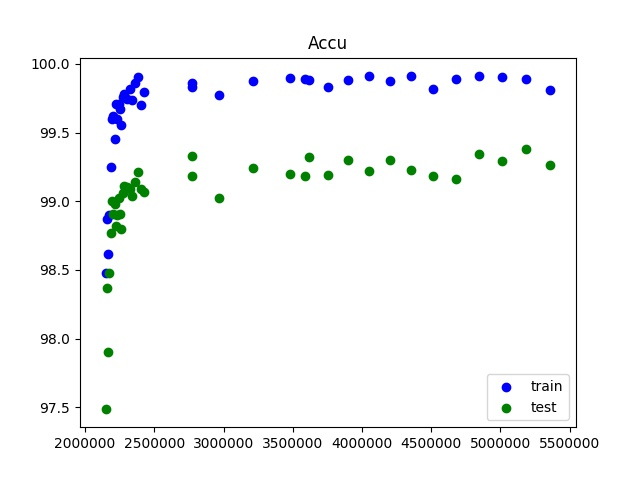
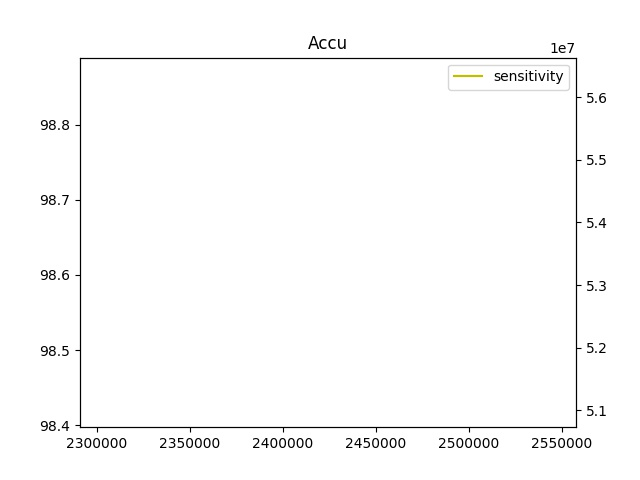
kdjf

diff --git a/hw1/1-3/1-3-3-2/util.py b/hw1/1-3/1-3-3-2/util.py
@@ -74,25 +74,29 @@ class Datamanager():
         return total_loss
     def val(self,model,name,valloader):
         model.eval()
+        loss_func = nn.CrossEntropyLoss()
         test_loss = 0
         correct = 0
+        g_total=[torch.zeros_like(i) for i in list(model.parameters())]
         for x, y in valloader:
-            x, y = Variable(x, volatile=True).cuda(), Variable(y,volatile=True).cuda()
+            x, y = Variable(x, volatile=False).cuda(), Variable(y,volatile=False).cuda()
             output = model(x)
-            test_loss += F.cross_entropy(output, y, size_average=False).data[0] # sum up batch loss
+            loss = loss_func(output,y)
+            test_loss += float(loss)
             #print('cross_entropy:',F.cross_entropy(output, y, size_average=False).data.size())
             pred = output.data.max(1,keepdim=True)[1] # get the index of the max log-probability
             #print('max:',output.data.max(1, keepdim=True).size())
             correct += pred.eq(y.data.view_as(pred)).long().cpu().sum()
-            g=torch.autograd.grad(test_loss, model.parameters(), create_graph=True)
-            print(g)
-            input()
+            g=torch.autograd.grad(loss, model.parameters())
+            for i in range(len(g_total)):
+                g_total[i]+=g[i]
 
         test_loss /= len(valloader.dataset)
-        print('{} set: Average loss: {:.4f} | Accuracy: {}/{} ({:.0f}%) | '.format(
+        g_total = sum([grd.norm()**2 for grd in g_total]).data[0]
+        print('{} set: Average loss: {:.4f} | Accuracy: {}/{} ({:.0f}%) | Gradien Norm: {}'.format(
             name,test_loss, correct, len(valloader.dataset),
-            100. * correct / len(valloader.dataset)))
-        return [test_loss,100 * correct / len(valloader.dataset)]
+            100. * correct / len(valloader.dataset),g_total))
+        return [test_loss,100 * correct / len(valloader.dataset),g_total]
     def test(self,model,trainloader):
         model.eval()
         pred_x=[]

diff --git a/hw1/1-3/1-3-3-2/plot.py b/hw1/1-3/1-3-3-2/plot.py
@@ -18,22 +18,25 @@ args = parser.parse_args()
 ############################################################
 dm.load_np('train','record/train.npy')
 dm.load_np('test','record/test.npy')
-x=np.array(range(1,len(dm.data['train'])+1))
 ############################################################
 #               plot loss                                  #
 ############################################################
-plt.figure()
-plt.scatter(dm.data['train'][:,0],dm.data['train'][:,1],c='b',label='train')
-plt.scatter(dm.data['test'][:,0],dm.data['test'][:,1],c='g',label='test')
+fig, ax1 = plt.subplots()
+ax2 = ax1.twinx()
+ax1.plot(dm.data['train'][:,0],dm.data['train'][:,1],c='b',label='train')
+ax1.plot(dm.data['test'][:,0],dm.data['test'][:,1],c='g',label='test')
+ax2.plot(dm.data['train'][:,0],dm.data['train'][:,3],c='y',label='sensitivity')
 plt.title('Loss')
 plt.legend()
 plt.savefig(args.loss_output)
 ############################################################
-#               plot loss                                  #
+#               plot accu                                  #
 ############################################################
-plt.figure()
-plt.scatter(dm.data['train'][:,0],dm.data['train'][:,2],c='b',label='train')
-plt.scatter(dm.data['test'][:,0],dm.data['test'][:,2],c='g',label='test')
+fig, ax1 = plt.subplots()
+ax2 = ax1.twinx()
+ax1.plot(dm.data['train'][:,0],dm.data['train'][:,2],c='b',label='train')
+ax1.plot(dm.data['test'][:,0],dm.data['test'][:,2],c='g',label='test')
+ax2.plot(dm.data['train'][:,0],dm.data['train'][:,3],c='y',label='sensitivity')
 plt.title('Accu')
 plt.legend()
 plt.savefig(args.accu_output)

diff --git a/hw1/1-3/1-3-2/train.py b/hw1/1-3/1-3-2/train.py
@@ -40,8 +40,8 @@ print('total parameters: {}'.format(parameters))
 # training and testing
 for epoch in range(EPOCH):
     dm.train(cnn,dm.data['mnist'][0],epoch,'cross_entropy')
-    #dm.val(cnn,'Train',dm.data['mnist'][0])
-    #dm.val(cnn,'Val',dm.data['mnist'][1])
+    dm.val(cnn,'Train',dm.data['mnist'][0])
+    dm.val(cnn,'Val',dm.data['mnist'][1])
     print('-'*50)
 train_record=np.array([parameters]+dm.val(cnn,'Train',dm.data['mnist'][0])).reshape((1,3))
 test_record=np.array([parameters]+dm.val(cnn,'Val',dm.data['mnist'][1])).reshape((1,3))

diff --git a/hw1/1-3/1-3-3-2/train.py b/hw1/1-3/1-3-3-2/train.py
@@ -19,7 +19,7 @@ parser.add_argument('-cr','--clear_record', dest='clear_record',action='store_tr
 #parser.add_argument('-lo','--loss_output', dest='loss_output',type=str,required=True)
 #parser.add_argument('-ao','--accu_output', dest='accu_output',type=str,required=True)
 args = parser.parse_args()
-EPOCH = 1
+EPOCH = 30
 BATCH_SIZE = args.batch
 ############################################################
 #               reading data                               #
